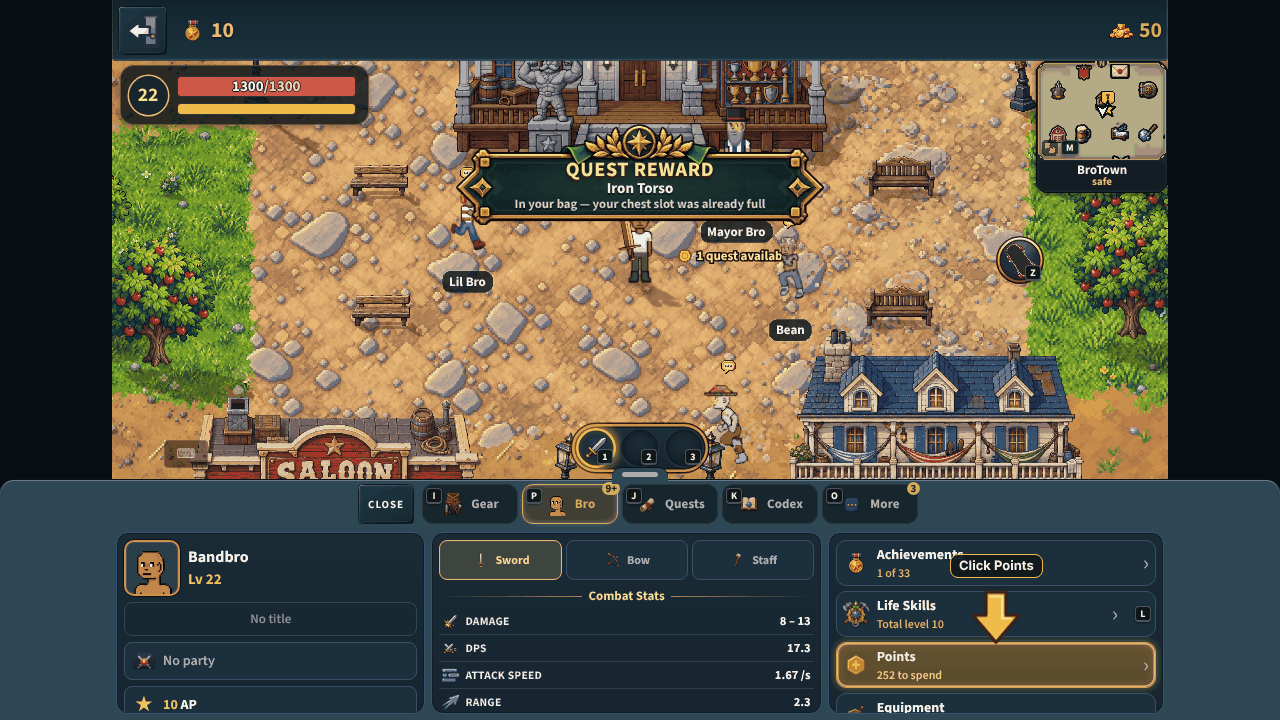
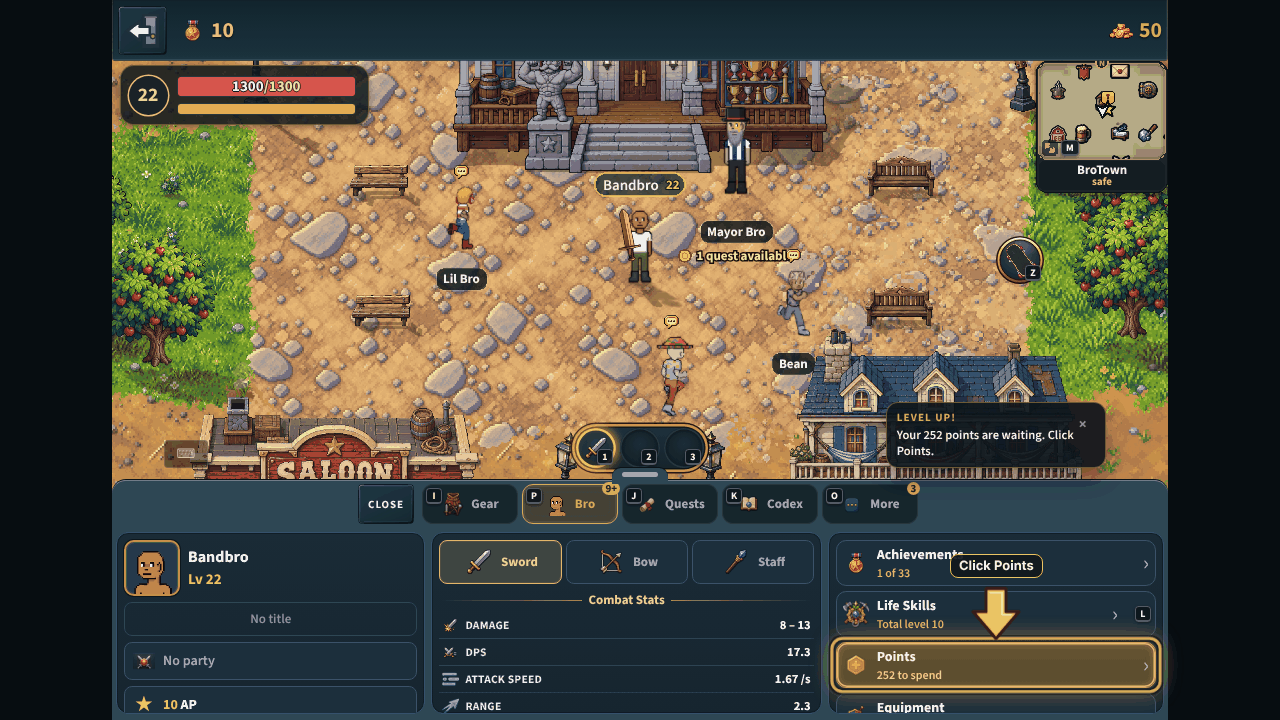
v2.3.4162: the band pictures retaken (the band at the world's width, the bigger weapon pictures); the notes and specs
docs/shots/band-{bro,gear}-desk.webp at 1280x720 and band-bro-side.webp,
256 colours, lossless. UI-DESIGN-NOTES (the band and the Bro page, the
owner's words), one-band.md and dash-tabs.md.

Claude-Session: https://claude.ai/code/session_01LccHaiarjuAbJYVoXRm2yk

diff --git a/docs/UI-DESIGN-NOTES.md b/docs/UI-DESIGN-NOTES.md
@@ -119,7 +119,8 @@ Screens: all
 - iPhone Safari, upright, is the primary platform (the whole UI was laid out against a 390-wide iPhone). Touch is tested first, not a mouse.
 - **Since v2.3.4152 every screen has the dashboard along the bottom**, the upright band: a sideways phone, a tablet and a computer as an upright phone (the owner, 2026-11-03: "Move the left side menu to the bottom of screen on computer and all other devices"). It is never taller than today's upright band (the owner: keep today's dashboard height on every layout; on a wider screen at most 243 px and a third of the screen: 130 on a sideways phone, 240 to 243 on a computer), its slots counted from its own box, the world above it with bars at its sides past 2.2:1; a computer keeps its keys and key caps, its controls list folded to the ⌨ until H opens it (docs/specs/one-band.md). This supersedes "No I don't want an overlay over the world" (v2.3.2157), "You can actually remove that whole bottom length bar now" (v2.3.2168) and "base desktop off the landscape mode" (v2.3.3687): the side column those built, described in the sideways and computer bullets below, is the OLD layout, kept for one device with `?oneband=0` or the Test panel's "Side column (old layout)".
 - **A phone on its side rests with the band folded** to its button row (v2.3.4152; the owner: the dashboard "will need to adapt to the new redesign we're adding for "gear" and "bro." Go recommended on default behavior going into landscape mode"): a 130 px band left a 260 px world, too short to play under the controls (they sat on the player frame and the minimap). A button opens its page; CLOSE, or closing the page any way, folds it again. Turning sideways, or loading sideways, folds it each time without touching the upright's remembered fold, and a player who opens it keeps it open until they fold it or turn the phone. While the band is open sideways the joysticks and every combat button step aside, hidden and untouchable, and come back when it folds: no control is ever over an open band. Folded, they take the sideways layout inside the world, the attack disc a little smaller (80 px) and the left thumb's cluster 20 px lower, so nothing covers the player frame, the minimap or its plate (docs/specs/one-band.md).
-- **On a computer or a tablet the band is open at rest and its content centred**: the nav row, the page and the resting columns are as wide as the world above them and never wider than 1200 px, the band's background the window's width (v2.3.4152). The Gear and Bro mockups are three panels side by side; across a 1920 px window they would be three thin strips.
+- **On a computer or a tablet the band is open at rest and its content centred**: the nav row, the page and the resting columns are as wide as the world above them and never wider than 1200 px (v2.3.4152). The Gear and Bro mockups are three panels side by side; across a 1920 px window they would be three thin strips.
+- **...and the band stops where the bars begin** (v2.3.4162, the owner on #1386: "Make the edge of the dashboard stop at the black bars width (hopefully that's an easy change and won't mess up anything)"). Where the world has black bars at its sides, the band is exactly the world's width, its edges in line with the bars', and the bars run black to the bottom of the screen; until then its background was the window's width, under the bars too. It takes the two numbers the world's box already uses, so nothing over the world moved (measured by mp-bandshots: the weapon pill, the keys, the chat bar, the player frame and the minimap). Where there are no bars (an upright phone, a tablet whose world fits) the band is the full width as before. A phone on its side keeps its band the screen's width: open, its world is 572 px over an 844 px band on purpose, so its slots keep the room.
 - Everyone sees the same slice of the world, drawn at whatever size fits: a bigger screen zooms in instead of seeing further, a narrow phone zooms out instead of seeing less (v2.3.1768b, v2.3.2021). Fairness is standing policy: seeing a monster or another player before they see you is the game's tactical layer, so a cheaper or smaller phone must not see less. Sideways was built to show about the same area, wider and shorter (v2.3.2156); the owner later chose a wider view of town held sideways ("landscape zoom: town/worldview only; combat zones stay.", v2.3.2497).
 - No screen sees more AREA of world than an upright phone (v2.3.4084; a design review the owner shared: "a consistent maximum gameplay visibility range regardless of screen dimensions"; the owner: "Cap it for everyone now"). A sideways phone or a wide computer is zoomed in until it sees about an upright phone's 850 x 1330 game px, never so far its short side drops below 680; the view keeps the screen's shape, and upright phones do not move. A sideways phone went from 2078 x 960 to 1564 x 723, a 2560 x 1080 computer from 1627 x 960 to 1384 x 817 (docs/specs/view-cap.md). Off for one tab with `?viewcap=0`, for every phone from the Test panel ("Same view for every screen").
 - (The old layout, `?oneband=0`, from here to the computer bullets.) Sideways is optional (owner: "Landscape would be an optional view. You can play in portrait or landscape."). At rest the world gets the whole screen: no bottom bar at all (owner: "You can actually remove that whole bottom length bar now", v2.3.2168), gold is a small chip at the world's bottom centre, and one ▴ chip opens the menus. The owner weighed the extra tap and chose it (v2.3.2176; the buttons "should've been hidden inside the main dashboard screen when it's minimized").
@@ -680,6 +681,7 @@ Screens: dash-bro, dash-bro-bow, dash-bro-points, dash-bro-equipment
 **Decisions, and why:**
 - **Three panels, as drawn** (v2.3.4162). The owner, of the first card (his own inspect card, below): "I'll need to change the layout of the bro tab, it reads like an old PC menu." Then: "I added what I want bro tab layout to look like on GitHub. One different thing is the xp bar near profile portrait (no general combat xp)" (the drawing: D474F679-6893-4890-823A-3BC96F817184.png in the repo root). And on the portrait the top-left frame lost: "character portrait are fine it's just too much screen space for persistent thing stuck on game screen ... I'm wanting the portrait in the bro section". So: LEFT, you: the game's own headshot in a gold frame, your name, "Lv N" and no XP bar (there is no general combat XP: your level is your best weapon's); the title you wear as a gold ribbon, or "No title" plainly; your clan (castle, name [TAG], or "No clan" / "No party"); your AP with the star; two tiles, Achievements n / total and Lifetime Kills. MIDDLE: Sword | Bow | Staff, then "Combat Stats" for that weapon. RIGHT: the doors, a chevron each. No full-body figure.
 - **The stats are the weapon you pick, in the game's own numbers** (sheet/broStats.js). The selector starts on the weapon in your hand and stays where you left it until the band closes. Damage, DPS, Attack Speed (swings a second, the auto-attack's own period: your Speed points, the bow's draw, the staff's cast, an attack-speed amulet), Range (the reach the stat demo fights with, in tiles), then the Equipment window's own pills worked out as if that weapon were out: Crit Chance, Crit Damage, Special Damage, Element Power (the weapon's element, then its lane's power), Defense, Armor, Dodge, Resist, Move Speed. The last five are shared, so they read the same under every weapon. An empty slot says "No bow equipped" and dashes, never another weapon's numbers. The drawing's numbers were placeholders: the game's units are kept (Defense in percent, Crit Damage "+N%", Element Power "+12", not a percent). Each row is a tap to its explainer.
+- **The weapon buttons wear the Gear tab's combat-skill pictures, big** (v2.3.4162, the owner on #1386: "Make the weapon icons above the combat stats larger and just reuse the icons used on the 3 primary combat skills"): Sword, Bow and Staff show the Melee, Bow and Magic pictures of the Gear tab's three skill tiles (read from the same table, heroModel's COMBAT_SKILLS, so the two cannot drift), 32 px with the word beside (20 px before, the old combat icons), each button 44 px tall; in one column (a narrow page) 26 px with the word under, 52 px tall.
 - **The doors** (v2.3.4162): Achievements ("n of total"), Life Skills (the drawing's "Attributes" row: the game has no STR / AGI / INT, so the slot went to the page that moved under Bro; "Total level N", a dot for an unseen level-up), Points ("N to spend", gold and glowing while N > 0, v2.3.3004's light: "until all points are spent"; "All spent" otherwise), Equipment ("n of 6 worn": it opens the Gear tab, v2.3.4151, the way the Gear button does), Homestead ("N plots ready": there is no farm window away from the farm, so a tap says it is reached from the Feed & Seed in BroTown, and the row has no chevron), Pet (its name, or "No pet": the Pets page), Titles ("N unlocked": the Achievements page, opened on the row you would pick from, the title you wear or your newest, where "Use as title" is), Clan (the clan's page). In the left panel the clan line, the AP, the ribbon and the Achievements tile are doors too. Achievements and Titles show only where the server grants achievements.
 - **The shape is the page's own width, the height is today's** (the owner: "No don't change todays dashboard height"). Measured from its box, never the window: 600 px and wider (a tablet, a computer's band in its centred box of up to 1200 px, a phone on its side in the one band), the three panels side by side, each its own scroller; 340-599 (an upright phone, 378 px of page), you beside the doors and the stats under them, one scroller; under 340 (the old sideways side column, `?oneband=0`, about 220 px), all three stacked. It needs no wrapper of its own: inside the band's centred box (v2.3.4152's `data-band-box`) it fills the box and no more. A phone on its side shows the least: the one band's page there is about 70 px tall, so the card shows each panel's first lines and scrolls. Upright the doors sit beside you rather than under the stats because the page is about 190 px tall there: Points is the third door, on screen when the page opens, where the coach's "Tap Points" and the big arrow can point at it; the stats are a scroll away. A taller box just shows more.
 - **Points is a window over the card** (v2.3.4162): the Points screen, framed, under a title row with a close (Esc on a computer) that comes back to the card, the weapon you picked still picked. The Equipment window (your figure, your gear, the stat families) is still there, but only for the roads that ask for it by name: since the Gear tab the card's Equipment door opens Gear, which holds what you wear. Achievements, Life Skills, Pets and the clan are pages pushed under Bro, their back chip returning to the card; every old road to Achievements or Life Skills (the L key, the top bar's medal, a card's title chip) lands there.

diff --git a/docs/specs/one-band.md b/docs/specs/one-band.md
@@ -70,9 +70,26 @@ Decided (owner-approved), and built:
    6 : 1, each of three panels about 400 px (the mockup's panel at a
    computer's 63 px tile), and it is what a 1280 px laptop window nearly
    fills. Measured: 1056 px at 1280 x 720 (the world's width there), 1200 at
-   1920 x 1080. The band's background stays the window's width. Every tab
-   inherits the box: Lane A's Gear tab and the Bro tab draw inside the page
-   box, so they need nothing of their own.
+   1920 x 1080. Every tab inherits the box: Lane A's Gear tab and the Bro
+   tab draw inside the page box, so they need nothing of their own.
+   **v2.3.4162: the band stops where the bars begin.** The owner on #1386:
+   *"Make the edge of the dashboard stop at the black bars width (hopefully
+   that's an easy change and won't mess up anything)"*. Until then the band's
+   background was the window's width under a narrower world. Now, wherever
+   the world has bars (`barW` > 0), `.bt-dashboard`'s left is `--world-x`
+   and its right `--world-r` (game.css, `html.bt-one-band:not(.bt-band-side)
+   .bt-dashboard`): the two numbers resize() already stamps for
+   `.brotown-wrap`, so the band and the world share one edge and nothing
+   over the world moves. The bars run in the page's colour to the bottom of
+   the screen. No bars (an upright phone, a tablet whose world fits): both
+   are 0, the full width as before. A phone on its side is left out on
+   purpose: its open band (844 px) is wider than its 572 px world so its
+   slots keep the screen's width; one selector widens the rule if the owner
+   wants it there too. `mp-bandshots` measures it: band edges = the world
+   canvas's within 1 px at 1280 x 720 and 1920 x 1080, the bar under the
+   band the same colour as above it, and the weapon pill, keys, chat bar,
+   player frame and minimap at the same boxes with the old full-width band
+   forced back.
 5. **Upright phones unchanged.** The Test panel's "Side column (old layout)"
    row stays the off-ramp.
 

diff --git a/docs/specs/dash-tabs.md b/docs/specs/dash-tabs.md
@@ -72,7 +72,12 @@ the top-bar lane once this is on main; one layout on every screen is B3.
     (`achvSummary`) and Lifetime Kills (`profileFromSelf`).
   - **the weapon's stats** (`sheet/broStats.js` `broWeaponStats(R, cat)`,
     pure, `server/test/bro-stats.test.mjs`): Sword | Bow | Staff, starting on
-    `prog3ActiveCat`, kept while the page is visited.  Thirteen rows: Damage
+    `prog3ActiveCat`, kept while the page is visited.  v2.3.4162, the owner
+    on #1386: *"Make the weapon icons above the combat stats larger and just
+    reuse the icons used on the 3 primary combat skills"*: the buttons wear
+    the Gear tab's skill-tile pictures (heroModel `COMBAT_SKILLS` Melee, Bow,
+    Magic: `BRO_WEAPONS` reads them from that table, no new art) at 32 px
+    (26 in one column, word under), the word beside, the button 44 px tall.  Thirteen rows: Damage
     and DPS (`calcDisplayDmgRange` / `calcDisplayDps` for that slot's weapon),
     Attack Speed (1000 / `statSim.autoSwingMs`, "/s"), Range
     (`statSim.reachOf`, tiles), then `heroStatPills` worked out with
@@ -159,7 +164,11 @@ None: a client-only layout change, no wire, no server behaviour.
 - `bandshots` (new): the band open on Gear and on Bro on a computer
   (1280 x 720 and 1920 x 1080, wide), a phone on its side and upright: Gear's
   tab at rest (never the old bag page), the Bro card filling the centred
-  `data-band-box` and no more, CLOSE first in the row.  Pictures:
+  `data-band-box` and no more, CLOSE first in the row; v2.3.4162: on a
+  computer the band's edges are the world canvas's within 1 px (the bars run
+  black under it, nothing over the world moved: one-band.md), upright and
+  sideways the screen's width, the selector's pictures the Gear tab's and
+  at least 44 px tall.  Pictures:
   `docs/shots/band-{gear,bro}-{desk,side,up}.webp`.
 - `server/test/bro-stats` (new): the thirteen rows, one reader with the
   Equipment window's pills, a lane's own points, an empty slot, the start,
